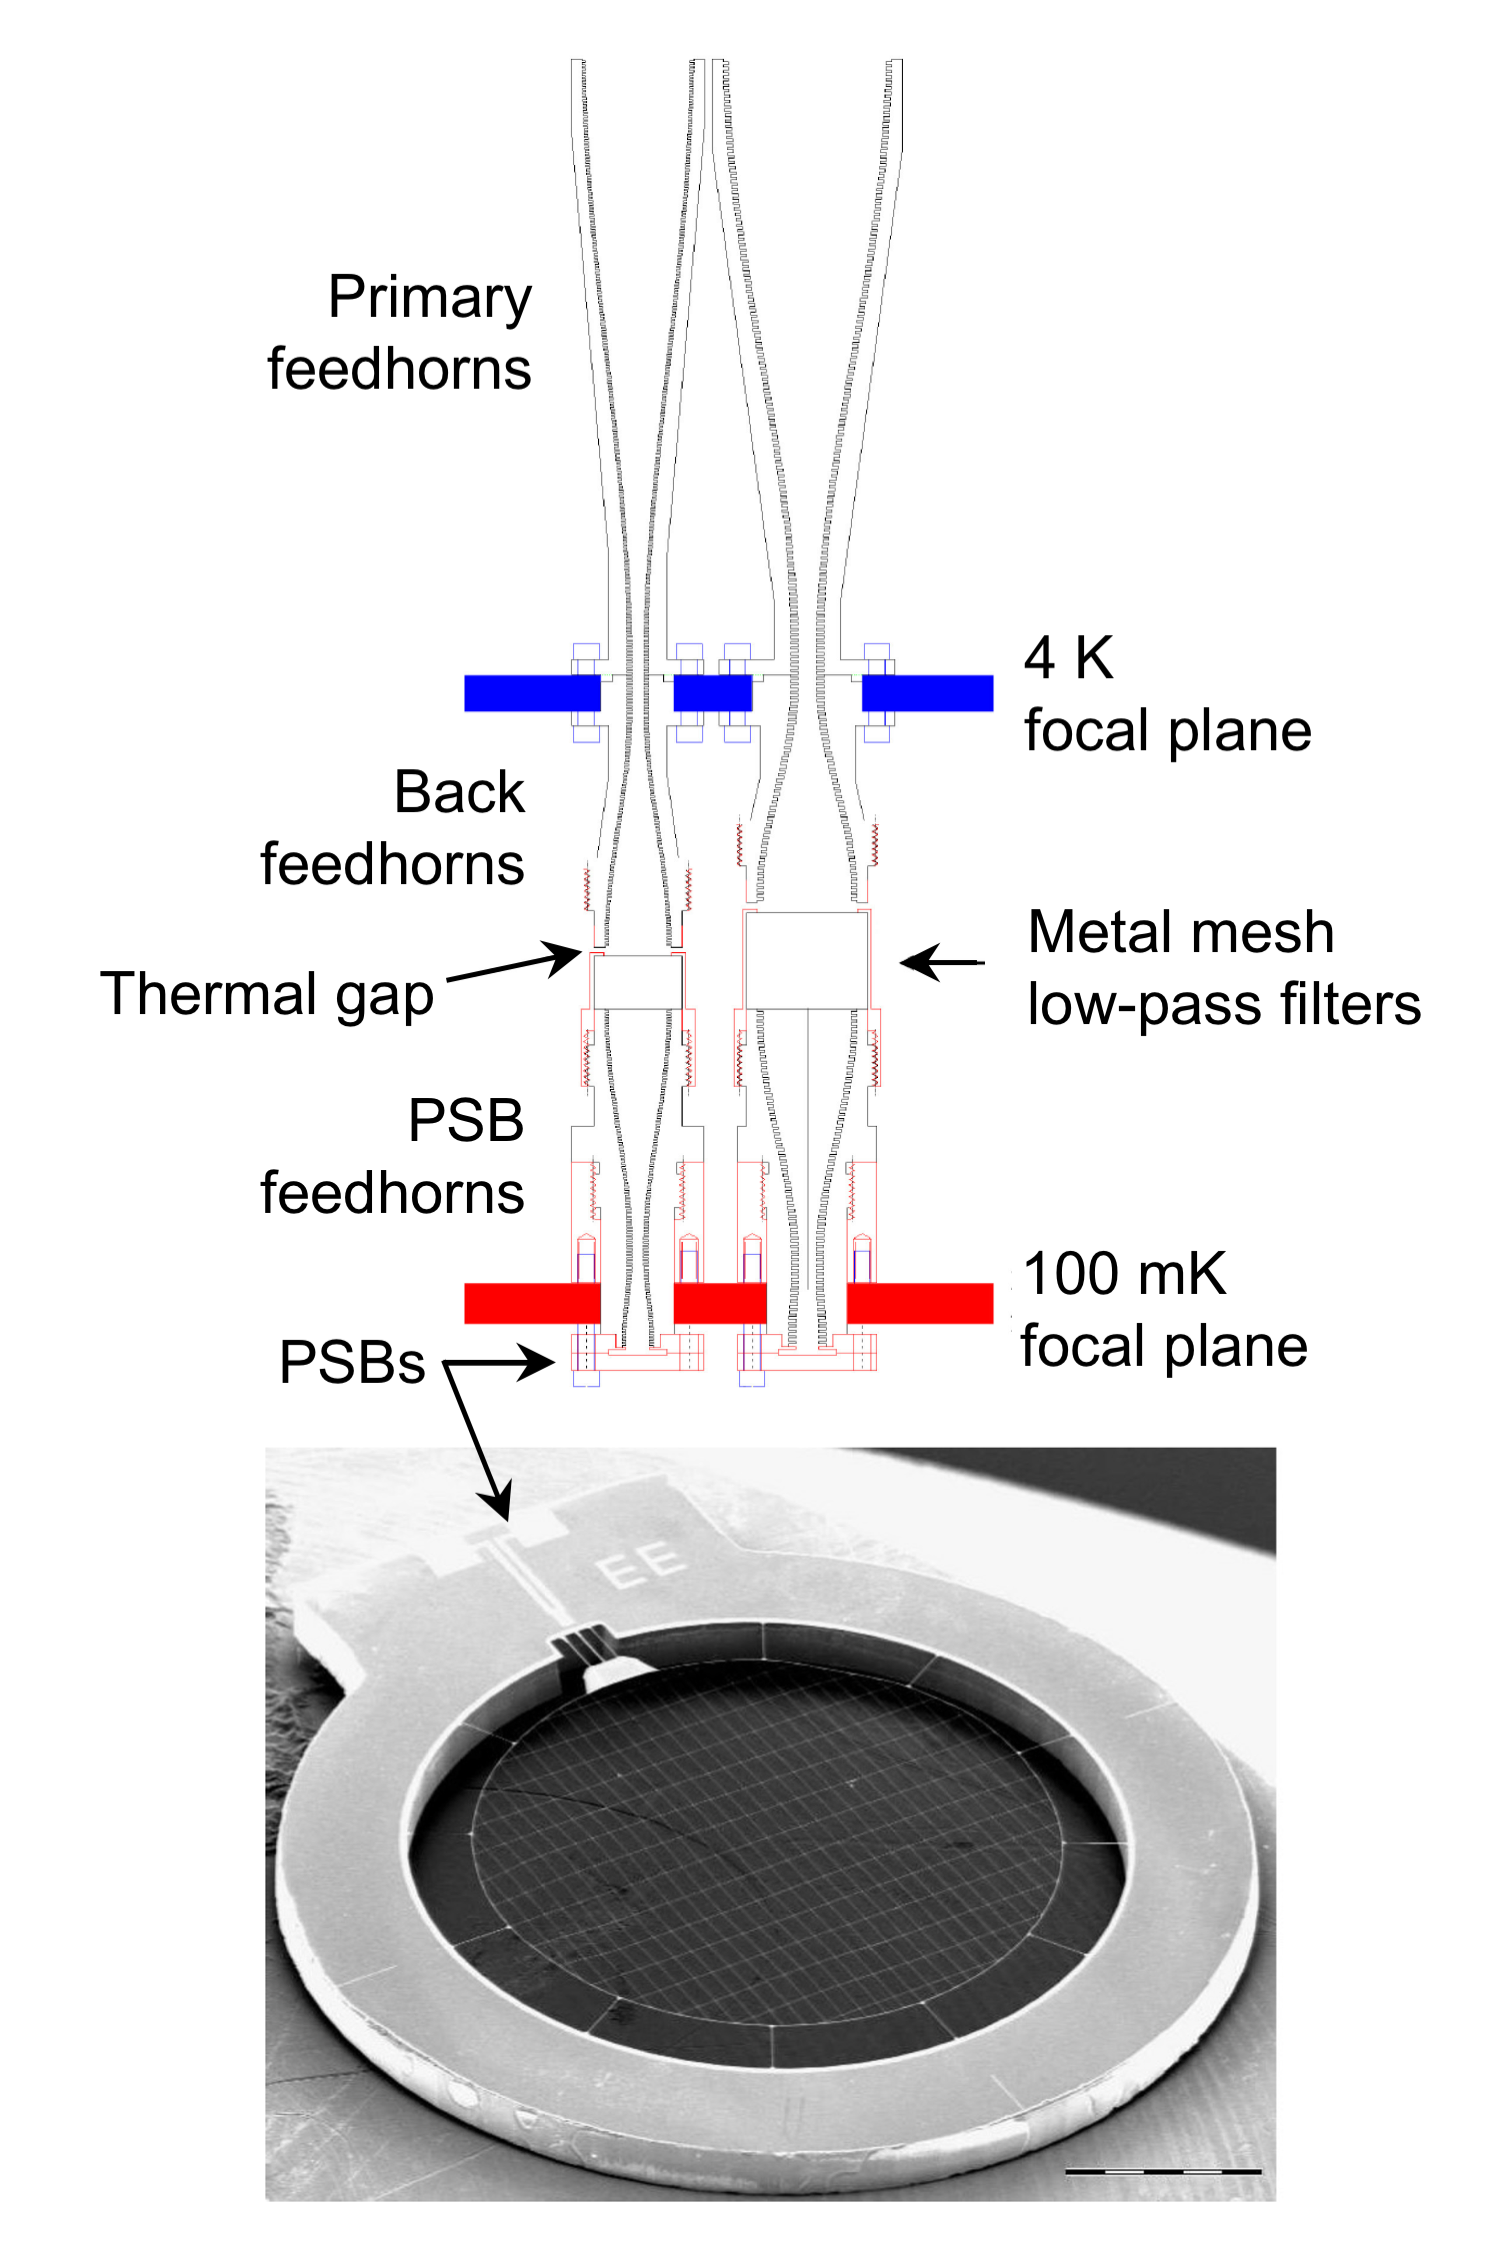
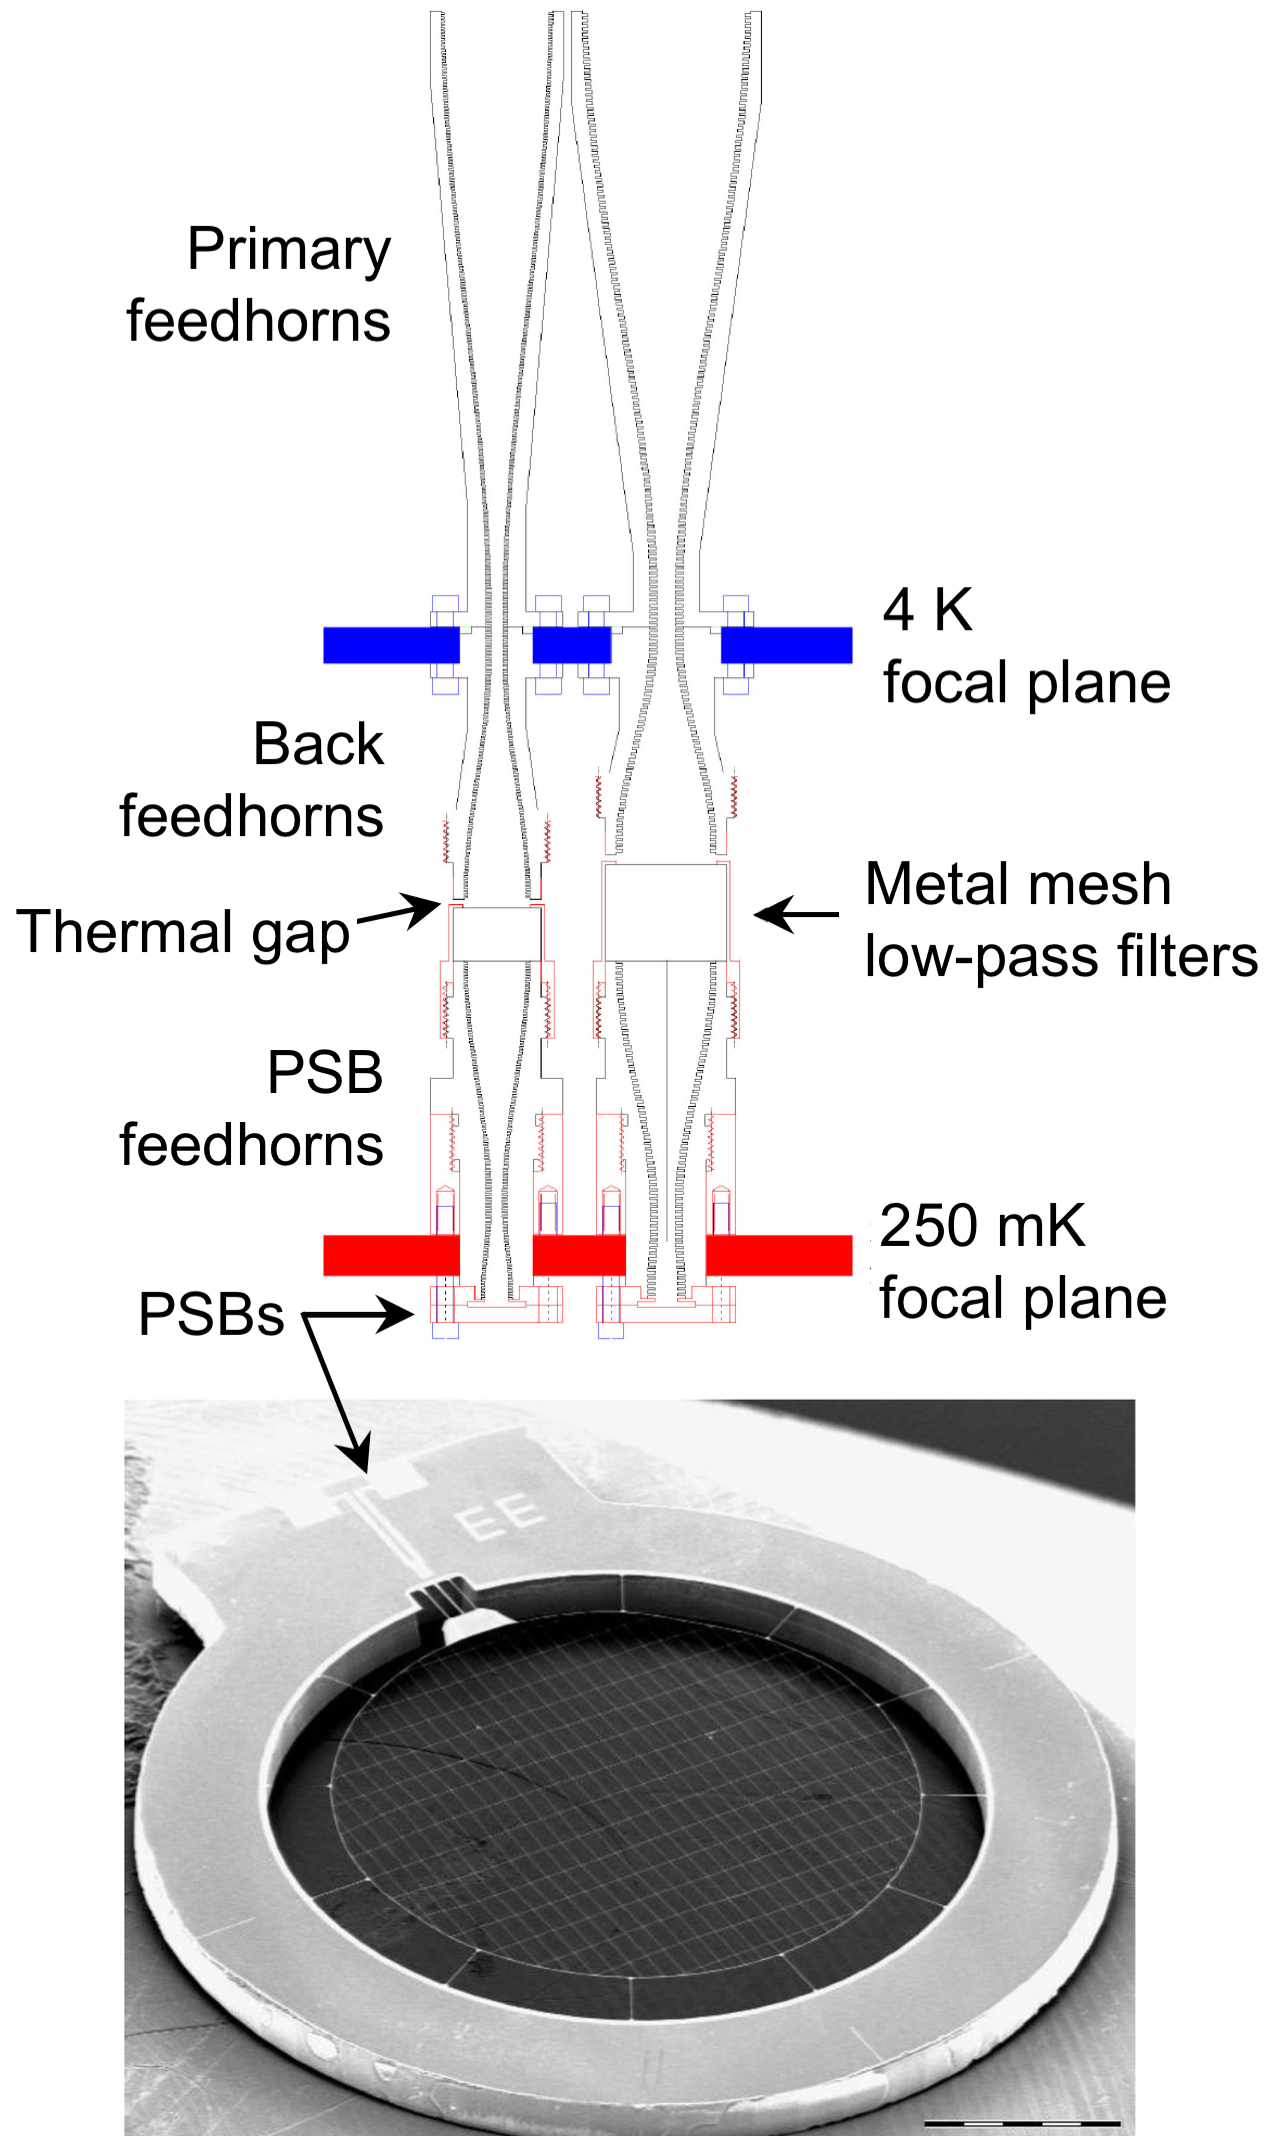
better cropping of direct absorbing bolo png

Changed region(s): [[0.0307, 0.0, 0.922, 1.0], [0.6761, 0.4017, 1.0, 0.4635]]

diff --git a/pico-eng-converted.tex b/pico-eng-converted.tex
@@ -686,13 +686,14 @@ All of these developments are straightforward extensions of technologies already
 \subsection{21--462\,GHz Bands}
 \label{sec:bolometers} %5.1
 %
-\begin{wrapfigure}{R}{3.9in}  % r is right aligned, l is left. Capital letters allow figure to float on page.
-\parbox{2.39in}{
+\begin{wrapfigure}{R}{3.80in}  % r is right aligned, l is left. Capital letters allow figure to float on page.
+\parbox{2.35in}{
 \includegraphics[width=2.35in]{figures/SPT3G.jpg} }  %% image was 3 in wide in past version.
-\parbox{1.48in}{
+\parbox{1.40in}{
 \caption{\captiontext SPT-3G operates a focal plane with sinuous antenna-coupled, three-band pixels with
 16,000 bolometers~\citep{Dutcher2018}. Each pixel couples radiation to bands at 95, 150, and
-220~GHz.\label{fig:pico_rendered} }
+220~GHz.
+\label{fig:spt_fp} }
 }
 \end{wrapfigure}
 %
@@ -740,8 +741,9 @@ There are potential solutions to this in the focal plane design, analysis, and f
 \label{sec:dev_arrays}
 %
 \label{sec:env_testing}
-\begin{wrapfigure}[28]{R}{0.4\textwidth}  % r is right aligned, l is left. Capital letters allow figure to float on page.
-\includegraphics[width=0.4\textwidth]{figures/DirectAbsorbing.png}  %% figure was 2.5 in, .4 /textwidth is 2.6in.
+\begin{wrapfigure}[28]{R}{0.35\textwidth}  % r is right aligned, l is left. Capital letters allow figure to float on page.
+\centering
+\includegraphics[width=0.35\textwidth]{figures/DirectAbsorbing.png}  %% figure was 2.5 in, .4 /textwidth is 2.6in.
 \vspace{-0.25in}
 \caption{\captiontext Top: \planck\ used horns to couple the electromagnetic radiation to its detectors. Horn coupling has been used in other experiments, and is the baseline for PICO's coupling between 555 and 799~GHz. Bottom: The photograph shows a dual-polarization, direct-absorbing bolometer from BICEP. The technology was also used with SPT-Pol and \planck-HFI for 143--343\,GHz bands.
 \label{fig:DirectAbsorbing} }
